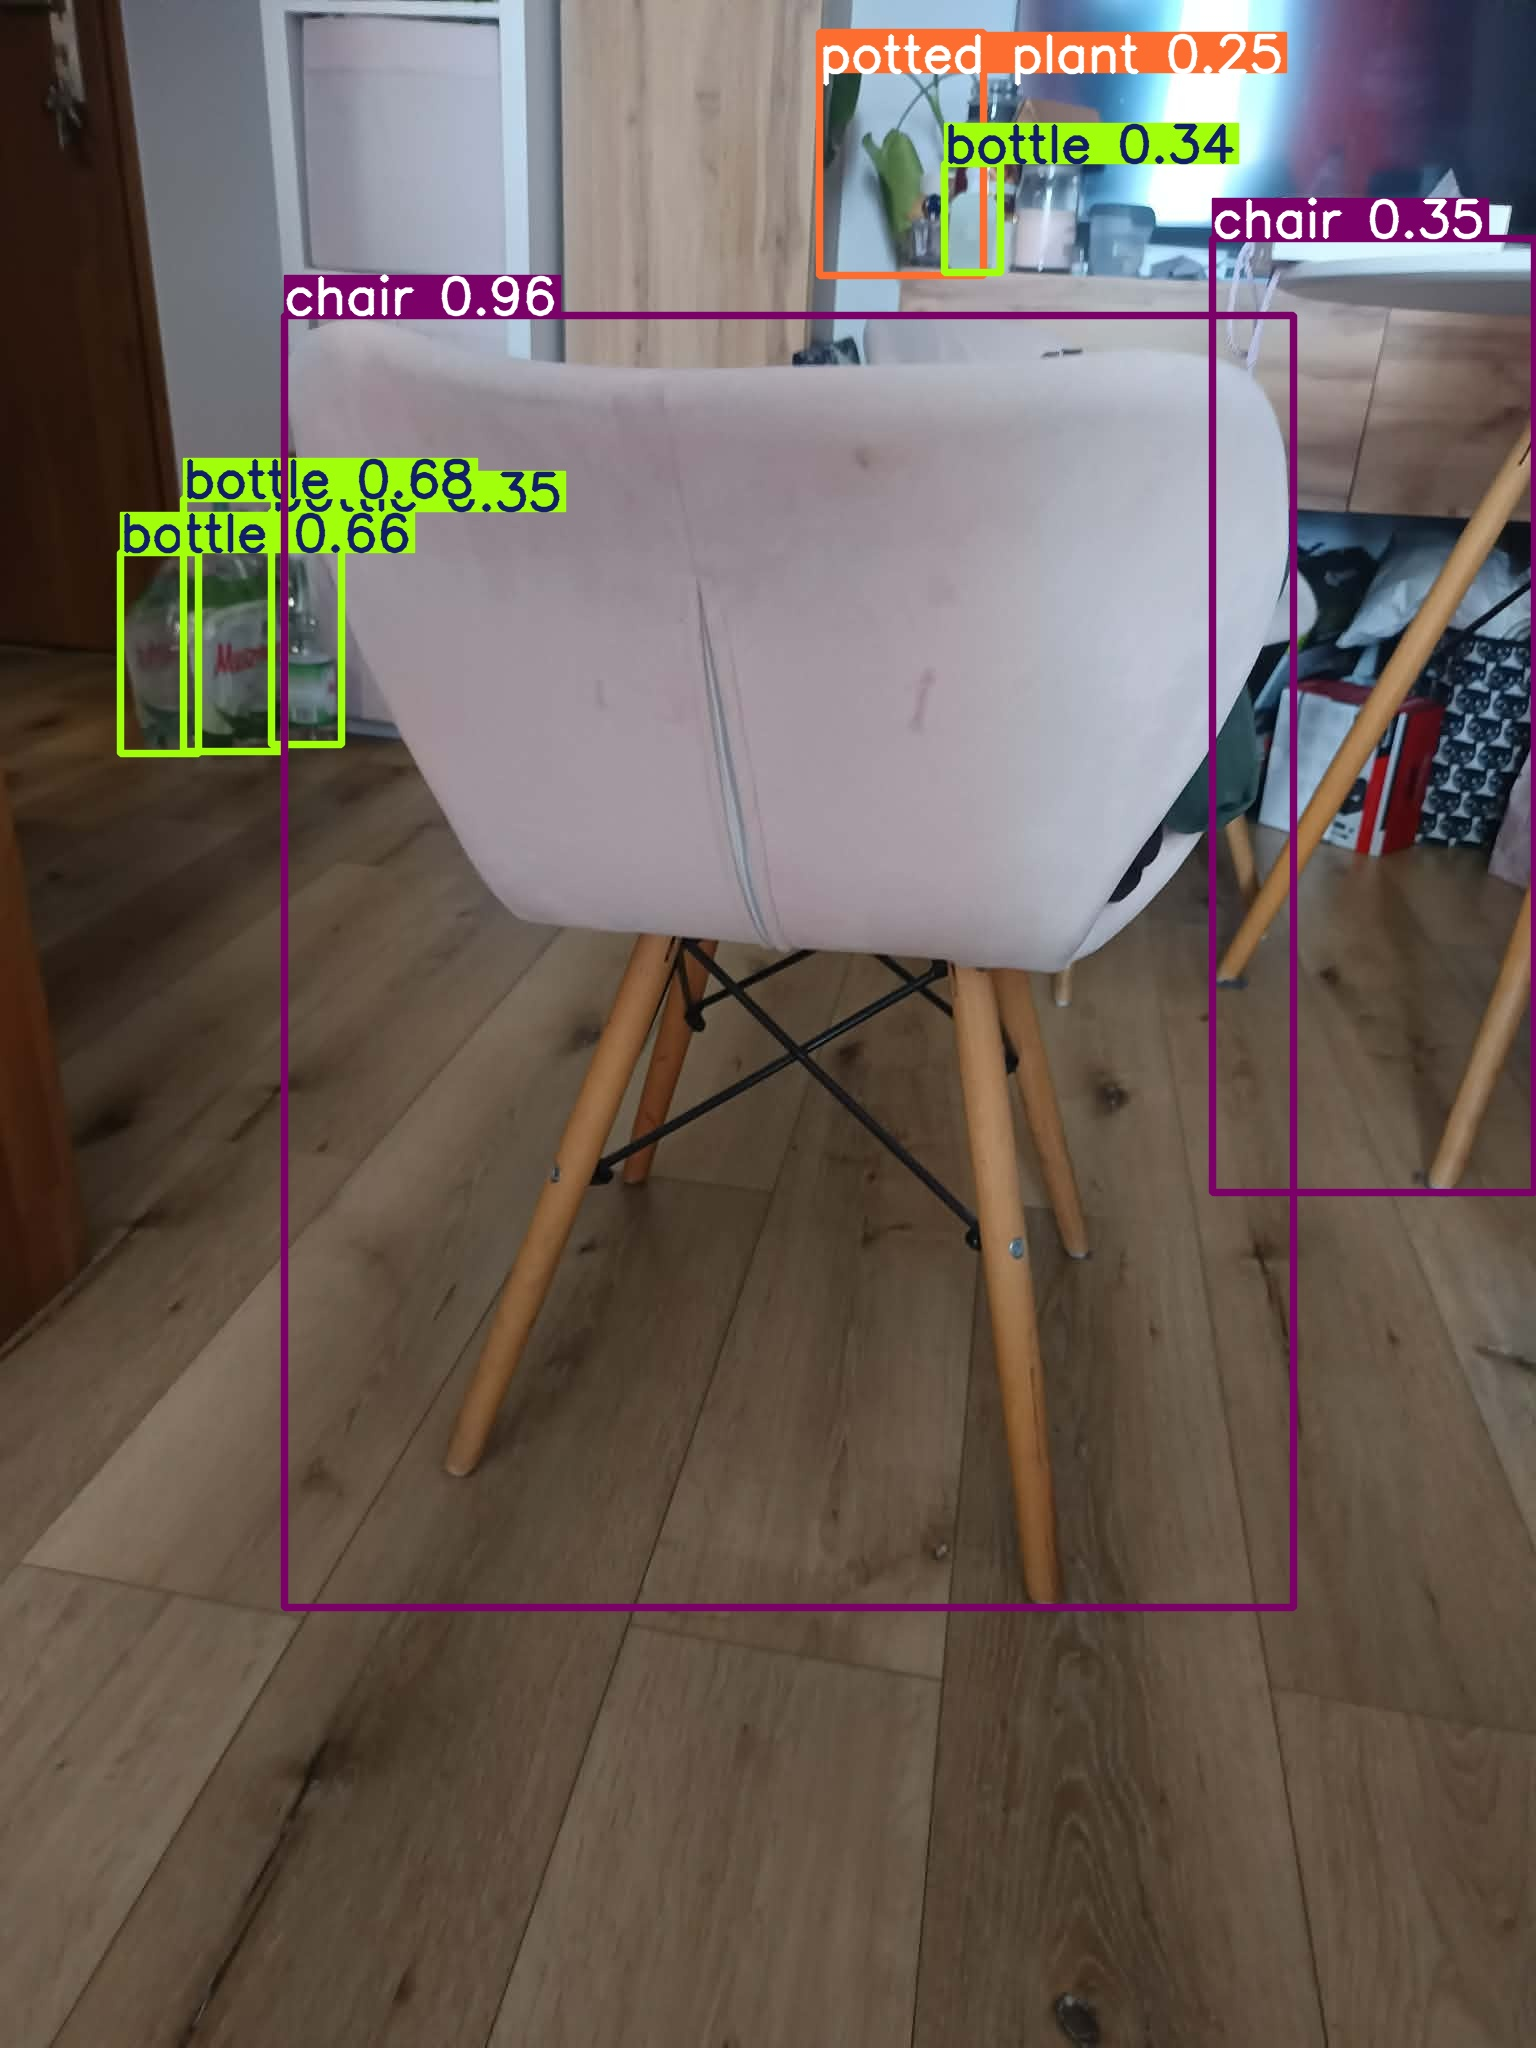
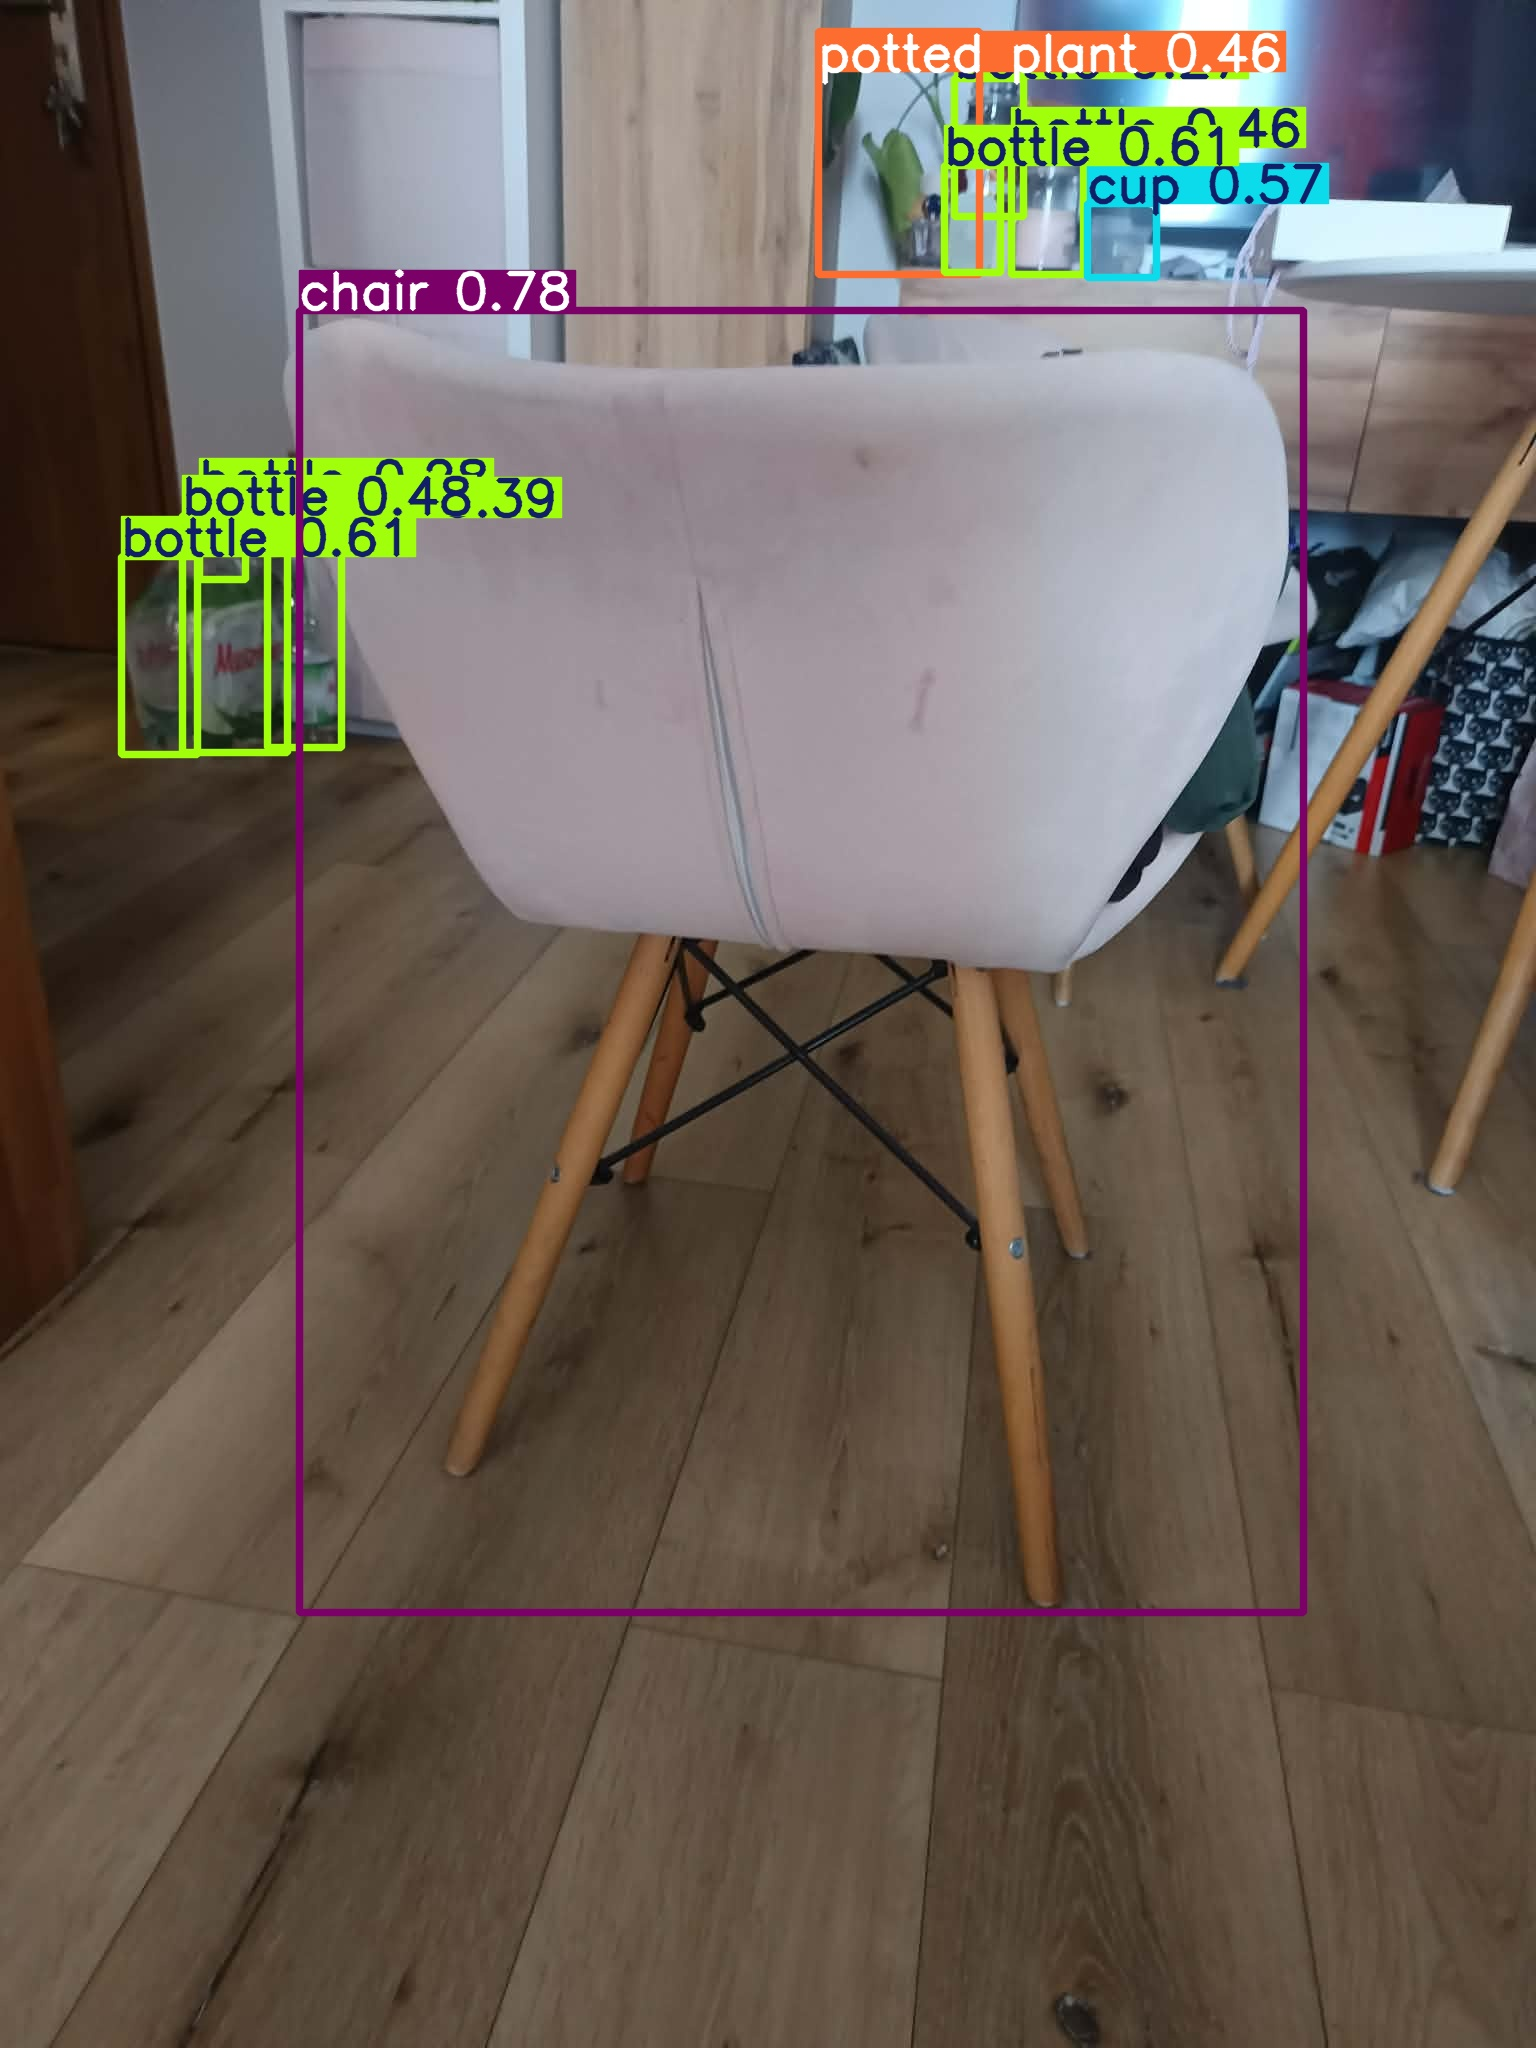
rozbudowa i wykrywanie odległości

Changed region(s): [[0.0625, 0.0, 1.0, 0.8125]]

diff --git a/Polinka_v2/YOLO/main.py b/Polinka_v2/YOLO/main.py
@@ -5,27 +5,84 @@ test -> dataset ze zdjęciami, można też przetestować mp4
 results -> zwraca zawartość test z nałożonymi boxami
 """
 
+TOO_CLOSE = 0.5
+CONFIDENCE = 0.5
+DISTANCE = 9999
+
+def is_too_close(box, frame_height):
+    x1, y1, x2, y2 = map(int, box.xyxy[0])
+    box_height = y2 - y1
+    ratio = box_height / frame_height
+    return ratio > TOO_CLOSE, round(ratio, 2)
 
 # załaduj model
 #model = YOLO("yolov8n.pt") #szybki, ale mało dokładny
 model = YOLO("yolov8m.pt") #średniak
 #model = YOLO("yolov8x.pt") #wolny, ale dokładny
+#model = YOLO("runs/detect/train/weights/best.pt") #najlepszy wytrenowany model
 """
 # info o modelu
 model.info()
 
 #trening basic
-results = model.train(data="coco8.yaml", epochs=100, imgsz=640)
+model.train(data="coco8.yaml", epochs=100, imgsz=640)
+
+#trening better
+model.train(
+    data="coco128.yaml",
+    epochs=50,
+    imgsz=640,
+    batch=16,
+    lr0=0.001,
+    patience=10,        # early stopping – zatrzyma jeśli brak poprawy
+    augment=True,       # obroty, jasność, flip – więcej z mniejszej liczby zdjęć
+    freeze=10,          # zamroź pierwsze 10 warstw – szybszy trening, zachowuje wiedzę COCO
+)
+
+#trening własny
+model.train(
+    data="dataset/dataset.yaml",
+    epochs=50,
+    imgsz=640,
+    batch=16,
+    lr0=0.001,
+    patience=10,        # early stopping – zatrzyma jeśli brak poprawy
+    augment=True,       # obroty, jasność, flip – więcej z mniejszej liczby zdjęć
+    freeze=10,          # zamroź pierwsze 10 warstw – szybszy trening, zachowuje wiedzę COCO
+)
 """
 
 #show
 #model("test/chair.jpg", show=True)
 #input("type anything...")
-results = model("test/chair.jpg")
+
+# Folder ze zdjęciami
+results = model("test/", imgsz=1280, augment=True)
+
+
+# Wideo (mp4)
+#results = model("test/video.mp4", stream=True)  # stream=True – ważne dla dużych plików!
+
+# Kamera na żywo
+#results = model(0, stream=True)  # 0 = domyślna kamera
+
 
 #zapisz wynik do results
-i = 0
-for r in results:
-    i+1
+for i, r in enumerate(results):
+    frame_height = r.orig_shape[0]  # oryginalna wysokość klatki
+    too_close_detected = False
+    for box in r.boxes:
+        if float(box.conf) < CONFIDENCE:
+            continue
+
+        label = model.names[int(box.cls)]
+        too_close, ratio = is_too_close(box, frame_height)
+
+        if too_close:
+            too_close_detected = True
+            print(f"[{i}] ZA BLISKO: {label} (ratio={ratio})")
+        else:
+            print(f"[{i}] OK: {label} (ratio={ratio})")
+
     im = r.plot()
-    cv2.imwrite(f"results/result_{i}.jpg",im)
+    cv2.imwrite(f"results/result_{i}.jpg", im)

diff --git a/Polinka_v2/PythonProject/main.py b/Polinka_v2/PythonProject/main.py
@@ -1,0 +1,16 @@
+# This is a sample Python script.
+
+# Press Shift+F10 to execute it or replace it with your code.
+# Press Double Shift to search everywhere for classes, files, tool windows, actions, and settings.
+
+
+def print_hi(name):
+    # Use a breakpoint in the code line below to debug your script.
+    print(f'Hi, {name}')  # Press Ctrl+F8 to toggle the breakpoint.
+
+
+# Press the green button in the gutter to run the script.
+if __name__ == '__main__':
+    print_hi('PyCharm')
+
+# See PyCharm help at https://www.jetbrains.com/help/pycharm/
